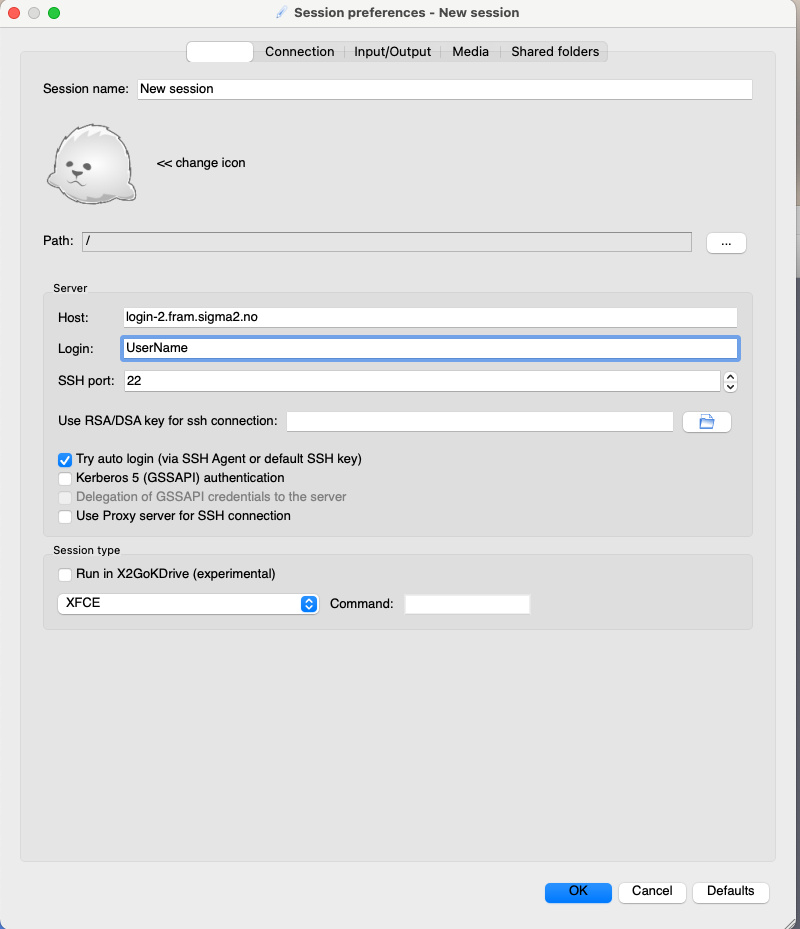
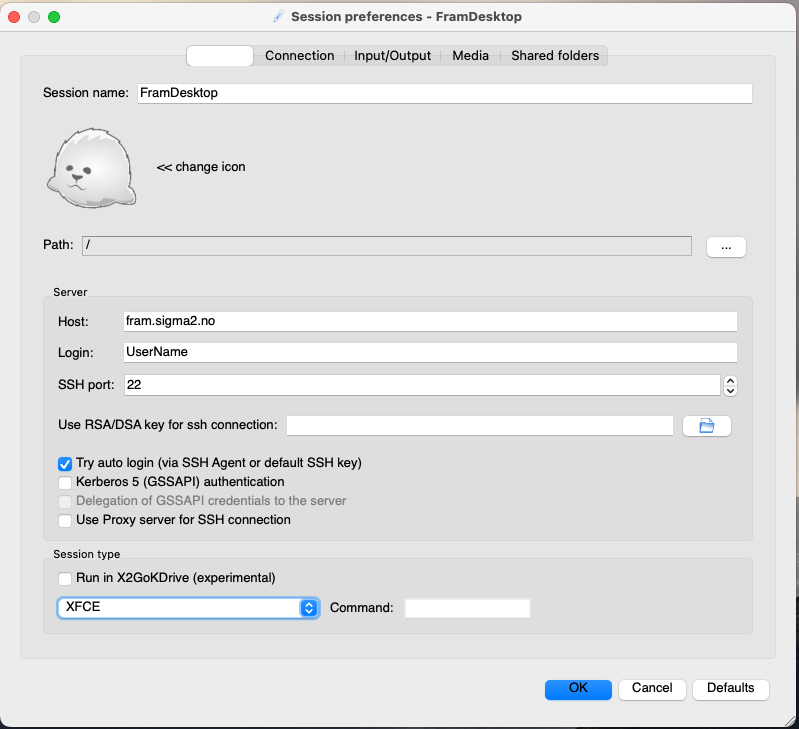
Are removing info about TigerVNC in public docs according to CAB conclusion

diff --git a/getting_started/remote-desktop.md b/getting_started/remote-desktop.md
@@ -49,7 +49,9 @@ Give this session a suitable name, for instance FramDesktop.
 * Use RSA/DSA key for ssh connection: 
 	* For Mac and Linux: Leave blank if you want to use your ssh-keys from standard location. 
 	* For windows: Create {ref}`SSH keys <ssh>` on your local machine and point to the public key.
-* Try auto login: `Check`
+* Try auto login: `Check` (see picture below). Especially advised for machines running Mac and Linux OS, which has "hidden path" standard for ssh-key folder. 
+
+![X2Go client session setup window emphesizing Auto SSH log in](X2Go_SessionSetupSSH.png)
 
 <u>*Proxy server section*</u>
 
@@ -60,7 +62,7 @@ Give this session a suitable name, for instance FramDesktop.
 * Choose ``XFCE``in the drop down menu of you want a desktop type setup.
 * Choose ``Single application``and add ``usr/bin/xterm``in the command window if you just want an xterm application running. 
 
-Then you are basically good to go. Log in to the machine in question, start a terminal window and get started working. 
+Then you are basically good to go. Log in to the machine in question by clicking on one of the predefined sessions you have just made, start a terminal window and start working. 
 
 ![Starting an X2Go session from a session icon](X2Go_SessionStart.png)
 
